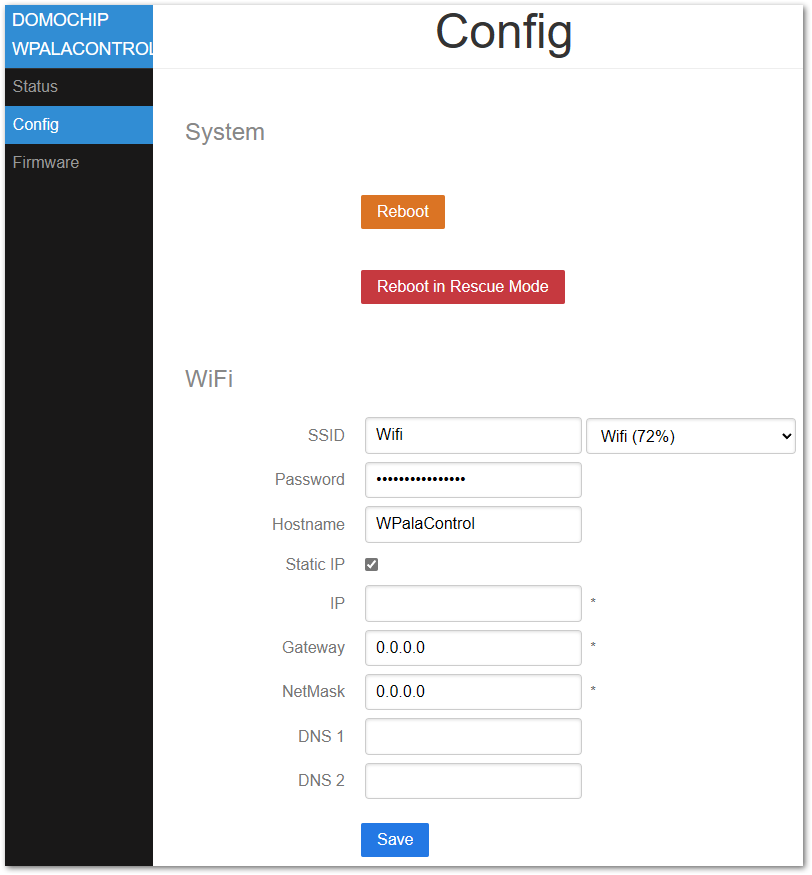
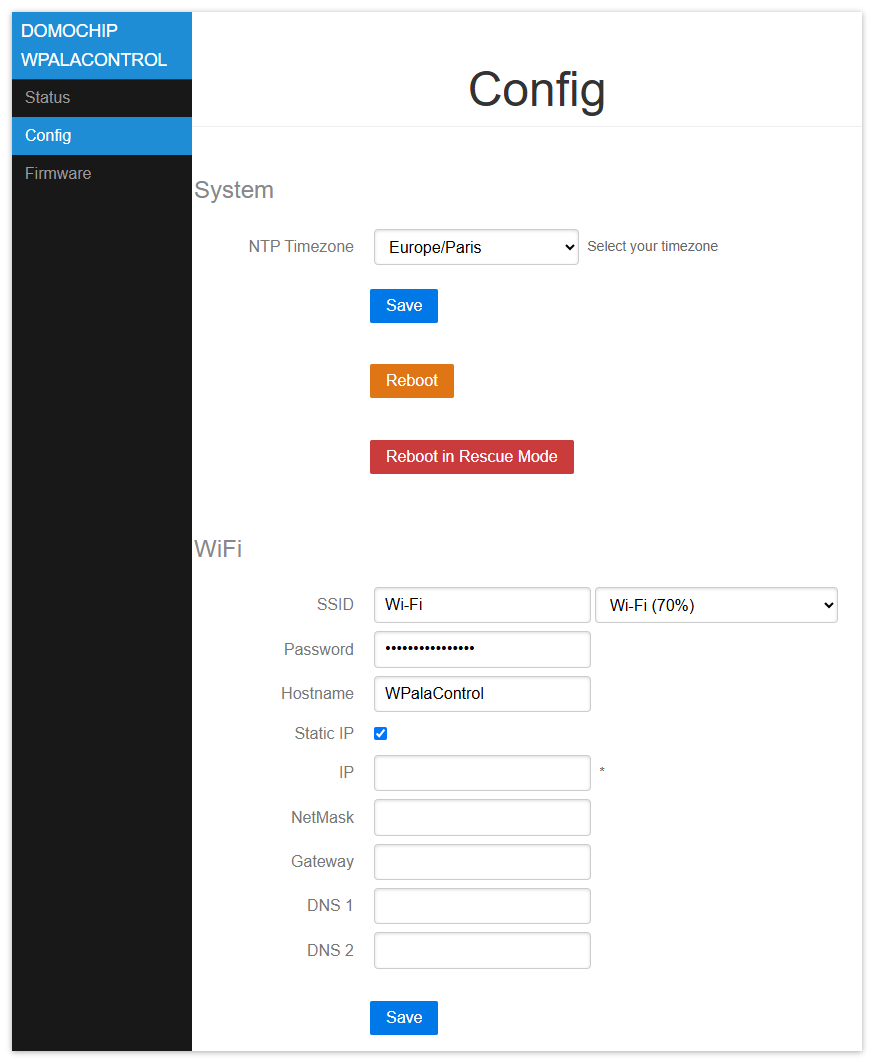
Update README.md with NTP timezone information and clarify reboot modes and Wi-Fi configuration

diff --git a/README.md b/README.md
@@ -80,14 +80,18 @@ Provides useful information about the module and the stove.
 
 #### System
 
+- **NTP Timezone**: your timezone, used for the module local time (default: Europe/Paris)
 - **Reboot**: restart the module
-- **Reboot in Rescue Mode**: restart the module with default configuration
+- **Reboot in Rescue Mode**: restart the module without loading the stored configuration (it is not erased). The module starts its own Wi-Fi network (AP mode) and is reachable at <http://192.168.4.1>
 
 #### WiFi
 
-- **ssid & password**: credentials of your Wi-Fi network  
-- **hostname**: name of ESP on the network  
-- **IP, GW, NetMask, DNS1&2**: Fixed IP configuration  
+- **SSID & Password**: credentials of your Wi-Fi network. Nearby networks are listed in the dropdown next to the SSID field (strongest signal first)
+- **Hostname**: name of the module on the network
+- **Static IP**: check to use a fixed IP configuration instead of DHCP
+  - **IP, NetMask, Gateway, DNS 1 & 2**: fixed IP configuration (IP is required)
+
+Leave the SSID empty to keep the module in AP mode (reachable at <http://192.168.4.1>).
 
 ![configMQTT screenshot](img/configMQTT.png)
 
